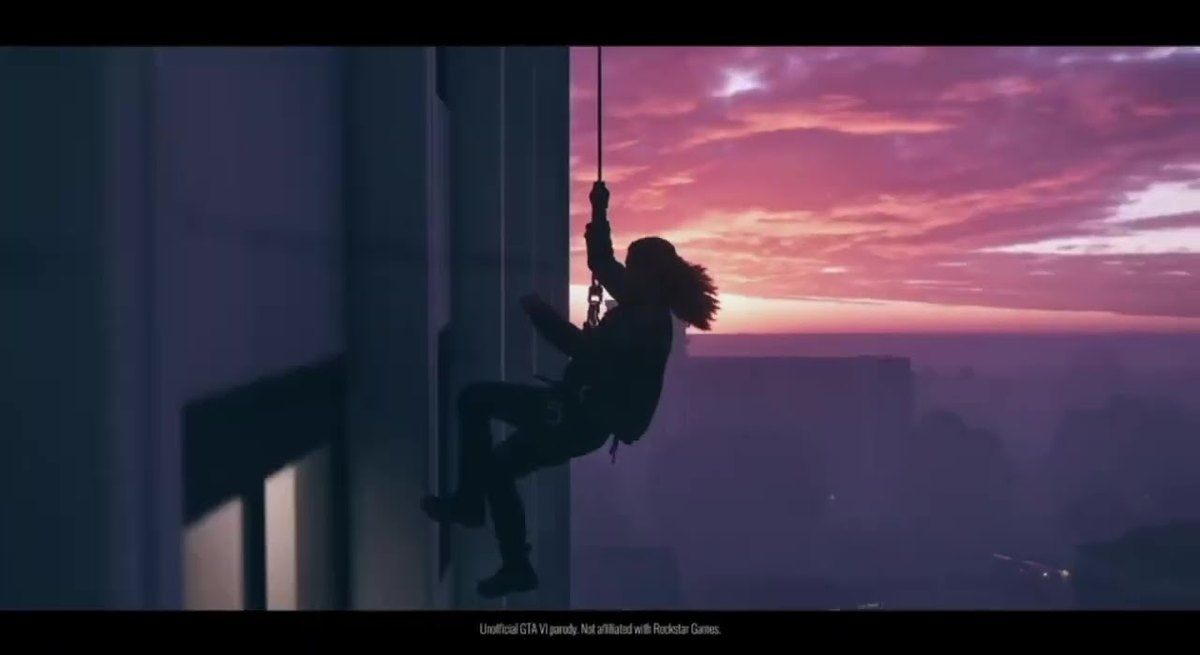
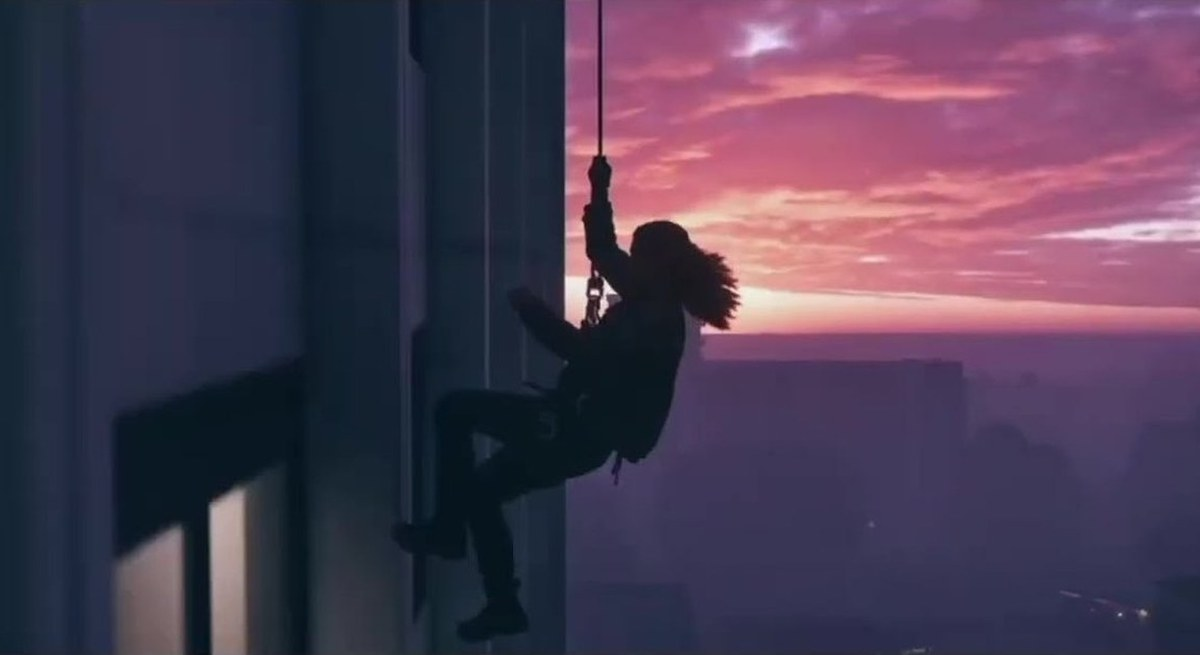
Harlow GTA story: trim letterbox bars from the video still; rebuild
Claude-Session: https://claude.ai/code/session_018rhzTHx5DMZuxeE12rwhtN

diff --git a/about/index.html b/about/index.html
@@ -97,7 +97,7 @@
 
 <h2 id="photo-credits">Photo credits</h2>
 <p>Town photographs on The Seax come from Wikimedia Commons and are used under the licences shown. They have been resized for the web and are shared under the same terms. Our map artwork is our own.</p>
-<ul class="credits"><li>Beach huts, West Mersea: photo by Robert Eva, <a href="https://creativecommons.org/licenses/by-sa/2.0" rel="license noopener">CC BY-SA 2.0</a>, via <a href="https://commons.wikimedia.org/wiki/File:Beach_Huts,_West_Mersea_-_geograph.org.uk_-_5291459.jpg" rel="noopener">Wikimedia Commons</a></li><li>Braintree Town Hall: photo by Richard Kelly, <a href="https://creativecommons.org/licenses/by/4.0" rel="license noopener">CC BY 4.0</a>, via <a href="https://commons.wikimedia.org/wiki/File:Braintree_Town_Hall.jpg" rel="noopener">Wikimedia Commons</a></li><li>Brentwood Cathedral: photo by Fr James Bradley, <a href="https://creativecommons.org/licenses/by/2.0" rel="license noopener">CC BY 2.0</a>, via <a href="https://commons.wikimedia.org/wiki/File:Brentwood_Cathedral_exterior_2.jpg" rel="noopener">Wikimedia Commons</a></li><li>Burnham-on-Crouch marina: photo by Robert Eva, <a href="https://creativecommons.org/licenses/by-sa/2.0" rel="license noopener">CC BY-SA 2.0</a>, via <a href="https://commons.wikimedia.org/wiki/File:Burnham_on_Crouch_marina_-_geograph.org.uk_-_5671413.jpg" rel="noopener">Wikimedia Commons</a></li><li>Canvey Island seafront: photo by Brian Chadwick, <a href="https://creativecommons.org/licenses/by-sa/2.0" rel="license noopener">CC BY-SA 2.0</a>, via <a href="https://commons.wikimedia.org/wiki/File:The_approach_to_the_seafront_at_Canvey_Island_-_geograph.org.uk_-_1889960.jpg" rel="noopener">Wikimedia Commons</a></li><li>Chelmsford Cathedral: photo by Diliff, <a href="https://creativecommons.org/licenses/by-sa/3.0" rel="license noopener">CC BY-SA 3.0</a>, via <a href="https://commons.wikimedia.org/wiki/File:Chelmsford_Cathedral_Exterior,_Essex,_UK_-_Diliff.jpg" rel="noopener">Wikimedia Commons</a></li><li>Chigwell station: photo by Stacey Harris, <a href="https://creativecommons.org/licenses/by-sa/2.0" rel="license noopener">CC BY-SA 2.0</a>, via <a href="https://commons.wikimedia.org/wiki/File:Chigwell_underground_station_-_geograph.org.uk_-_2381964.jpg" rel="noopener">Wikimedia Commons</a></li><li>Clacton Pier: photo by Steve Daniels, <a href="https://creativecommons.org/licenses/by-sa/2.0" rel="license noopener">CC BY-SA 2.0</a>, via <a href="https://commons.wikimedia.org/wiki/File:Clacton_Pier_-_geograph.org.uk_-_5530161.jpg" rel="noopener">Wikimedia Commons</a></li><li>Colchester Castle: photo by Spudgun67, <a href="http://creativecommons.org/publicdomain/zero/1.0/deed.en" rel="license noopener">CC0</a>, via <a href="https://commons.wikimedia.org/wiki/File:Colchester_Castle_Castle_Park_Colchester_Essex_CO1_1TJ.jpg" rel="noopener">Wikimedia Commons</a></li><li>Epping High Street: photo by Nigel Thompson, <a href="https://creativecommons.org/licenses/by-sa/2.0" rel="license noopener">CC BY-SA 2.0</a>, via <a href="https://commons.wikimedia.org/wiki/File:Epping_High_Street_-_geograph.org.uk_-_7463158.jpg" rel="noopener">Wikimedia Commons</a></li><li>Frinton-on-Sea beach: photo by Rhys Wynne, <a href="https://creativecommons.org/licenses/by-sa/2.0" rel="license noopener">CC BY-SA 2.0</a>, via <a href="https://commons.wikimedia.org/wiki/File:Frinton-on-sea_(274636193).jpg" rel="noopener">Wikimedia Commons</a></li><li>Grange Barn, Coggeshall: photo by Tim Heaton, <a href="https://creativecommons.org/licenses/by-sa/2.0" rel="license noopener">CC BY-SA 2.0</a>, via <a href="https://commons.wikimedia.org/wiki/File:Grange_Barn,_Coggeshall_-_geograph.org.uk_-_6649109.jpg" rel="noopener">Wikimedia Commons</a></li><li>Ha&#x27;penny Pier, Harwich: photo by Bob Jones, <a href="https://creativecommons.org/licenses/by-sa/2.0" rel="license noopener">CC BY-SA 2.0</a>, via <a href="https://commons.wikimedia.org/wiki/File:Ha&#x27;penny_Pier,_Harwich_-_geograph.org.uk_-_2565200.jpg" rel="noopener">Wikimedia Commons</a></li><li>High Road, Loughton: photo by Peter Trimming, <a href="https://creativecommons.org/licenses/by-sa/2.0" rel="license noopener">CC BY-SA 2.0</a>, via <a href="https://commons.wikimedia.org/wiki/File:Loughton_-_geograph.org.uk_-_5041403.jpg" rel="noopener">Wikimedia Commons</a></li><li>High Street, Billericay: photo by MadeInBasildon, <a href="https://creativecommons.org/licenses/by-sa/4.0" rel="license noopener">CC BY-SA 4.0</a>, via <a href="https://commons.wikimedia.org/wiki/File:Billericay_-_57-61,_High_Street_-_20210923130723.jpg" rel="noopener">Wikimedia Commons</a></li><li>Hythe Quay, Maldon: photo by ClemRutter, <a href="https://creativecommons.org/licenses/by-sa/4.0" rel="license noopener">CC BY-SA 4.0</a>, via <a href="https://commons.wikimedia.org/wiki/File:Hythe_Quay,_Maldon_3787.jpg" rel="noopener">Wikimedia Commons</a></li><li>Newland Street, Witham: photo by Christopher Hilton, <a href="https://creativecommons.org/licenses/by-sa/2.0" rel="license noopener">CC BY-SA 2.0</a>, via <a href="https://commons.wikimedia.org/wiki/File:Newland_Street,_Witham_-_geograph.org.uk_-_7167860.jpg" rel="noopener">Wikimedia Commons</a></li><li>North Street, Great Dunmow: photo by Malc McDonald, <a href="https://creativecommons.org/licenses/by-sa/2.0" rel="license noopener">CC BY-SA 2.0</a>, via <a href="https://commons.wikimedia.org/wiki/File:North_Street,_Great_Dunmow_-_geograph.org.uk_-_7333292.jpg" rel="noopener">Wikimedia Commons</a></li><li>Old Leigh, Leigh-on-Sea: photo by Chris Wood, <a href="https://creativecommons.org/licenses/by-sa/4.0" rel="license noopener">CC BY-SA 4.0</a>, via <a href="https://commons.wikimedia.org/wiki/File:Leigh-on-Sea_-_Old_Leigh_-_05.jpg" rel="noopener">Wikimedia Commons</a></li><li>Rayleigh Windmill: photo by Jonathan Cardy, <a href="https://creativecommons.org/licenses/by-sa/3.0" rel="license noopener">CC BY-SA 3.0</a>, via <a href="https://commons.wikimedia.org/wiki/File:Rayleigh_Windmill_7.JPG" rel="noopener">Wikimedia Commons</a></li><li>River Colne, Halstead: photo by Nick MacNeill, <a href="https://creativecommons.org/licenses/by-sa/2.0" rel="license noopener">CC BY-SA 2.0</a>, via <a href="https://commons.wikimedia.org/wiki/File:River_Colne,_Halstead_-_geograph.org.uk_-_2512408.jpg" rel="noopener">Wikimedia Commons</a></li><li>River Thames at Purfleet: photo by Richard Rogerson, <a href="https://creativecommons.org/licenses/by-sa/2.0" rel="license noopener">CC BY-SA 2.0</a>, via <a href="https://commons.wikimedia.org/wiki/File:Landing_Stage_on_the_River_Thames,_Purfleet_-_geograph.org.uk_-_6124336.jpg" rel="noopener">Wikimedia Commons</a></li><li>Riverside gardens, Grays: photo by Robert Eva, <a href="https://creativecommons.org/licenses/by-sa/2.0" rel="license noopener">CC BY-SA 2.0</a>, via <a href="https://commons.wikimedia.org/wiki/File:Riverside_gardens_at_Grays_-_geograph.org.uk_-_5531644.jpg" rel="noopener">Wikimedia Commons</a></li><li>Rochford Hall: photo by David Kemp, <a href="https://creativecommons.org/licenses/by-sa/2.0" rel="license noopener">CC BY-SA 2.0</a>, via <a href="https://commons.wikimedia.org/wiki/File:Rochford_Hall_-_geograph.org.uk_-_5817807.jpg" rel="noopener">Wikimedia Commons</a></li><li>Saffron Walden: photo by Peter Trimming, <a href="https://creativecommons.org/licenses/by-sa/2.0" rel="license noopener">CC BY-SA 2.0</a>, via <a href="https://commons.wikimedia.org/wiki/File:Saffron_Walden_-_geograph.org.uk_-_4412899.jpg" rel="noopener">Wikimedia Commons</a></li><li>South Woodham Ferrers from the air: photo by Terry Joyce, <a href="https://creativecommons.org/licenses/by-sa/2.0" rel="license noopener">CC BY-SA 2.0</a>, via <a href="https://commons.wikimedia.org/wiki/File:South_Woodham_Ferrers_-_geograph.org.uk_-_2125855.jpg" rel="noopener">Wikimedia Commons</a></li><li>Southend Pier: photo by Damian Dukarski, <a href="https://creativecommons.org/licenses/by-sa/3.0" rel="license noopener">CC BY-SA 3.0</a>, via <a href="https://commons.wikimedia.org/wiki/File:Southend_Pier_Autumn_2007_-_crop.jpg" rel="noopener">Wikimedia Commons</a></li><li>St Margaret&#x27;s Church, Stanford-le-Hope: photo by John Salmon, <a href="https://creativecommons.org/licenses/by-sa/2.0" rel="license noopener">CC BY-SA 2.0</a>, via <a href="https://commons.wikimedia.org/wiki/File:St_Margaret_of_Antioch,_Stanford_le_Hope,_Essex_-_geograph.org.uk_-_1862988.jpg" rel="noopener">Wikimedia Commons</a></li><li>St Mary&#x27;s Church, South Benfleet: photo by JohnArmagh, <a href="https://creativecommons.org/publicdomain/mark/1.0/" rel="license noopener">Public domain</a>, via <a href="https://commons.wikimedia.org/wiki/File:StMary&#x27;sChurchBenfleet_SouthEast.JPG" rel="noopener">Wikimedia Commons</a></li><li>Stansted Mountfitchet windmill: photo by Christine Matthews, <a href="https://creativecommons.org/licenses/by-sa/2.0" rel="license noopener">CC BY-SA 2.0</a>, via <a href="https://commons.wikimedia.org/wiki/File:Windmill_at_Stansted_Mountfitchet_-_geograph.org.uk_-_5686287.jpg" rel="noopener">Wikimedia Commons</a></li><li>The Basildon Centre: photo by Richard Kelly, <a href="https://creativecommons.org/licenses/by-sa/4.0" rel="license noopener">CC BY-SA 4.0</a>, via <a href="https://commons.wikimedia.org/wiki/File:The_Basildon_Centre.jpg" rel="noopener">Wikimedia Commons</a></li><li>The Naze Tower, Walton-on-the-Naze: photo by Michael Coppins, <a href="https://creativecommons.org/licenses/by-sa/4.0" rel="license noopener">CC BY-SA 4.0</a>, via <a href="https://commons.wikimedia.org/wiki/File:The_Naze_Tower.jpg" rel="noopener">Wikimedia Commons</a></li><li>Tilbury Fort: photo by Hugh Llewelyn, <a href="https://creativecommons.org/licenses/by-sa/2.0" rel="license noopener">CC BY-SA 2.0</a>, via <a href="https://commons.wikimedia.org/wiki/File:Tilbury_Fort_-_48957435023.jpg" rel="noopener">Wikimedia Commons</a></li><li>Waltham Abbey Church: photo by The wub, <a href="https://creativecommons.org/licenses/by-sa/4.0" rel="license noopener">CC BY-SA 4.0</a>, via <a href="https://commons.wikimedia.org/wiki/File:Waltham_Abbey_Church_from_southeast_2022-02-26.jpg" rel="noopener">Wikimedia Commons</a></li><li>Water Gardens, Harlow: photo by FromMorningToMidnight, <a href="https://creativecommons.org/licenses/by-sa/4.0" rel="license noopener">CC BY-SA 4.0</a>, via <a href="https://commons.wikimedia.org/wiki/File:Harlow_-_Water_Gardens_-_20220823190714.jpg" rel="noopener">Wikimedia Commons</a></li><li>Western promenade, Brightlingsea: photo by Helen Steed, <a href="https://creativecommons.org/licenses/by-sa/2.0" rel="license noopener">CC BY-SA 2.0</a>, via <a href="https://commons.wikimedia.org/wiki/File:Western_promenade,_Brightlingsea_-_geograph.org.uk_-_7338080.jpg" rel="noopener">Wikimedia Commons</a></li><li>Wickford station: photo by Robert Eva, <a href="https://creativecommons.org/licenses/by-sa/2.0" rel="license noopener">CC BY-SA 2.0</a>, via <a href="https://commons.wikimedia.org/wiki/File:Wickford_station_footbridge_(geograph_5671926).jpg" rel="noopener">Wikimedia Commons</a></li><li>London Stansted Airport library images: photos by London Stansted Airport</li><li>c2c train 357 040 at Ripple Lane (used on c2c stories): photo by kitmasterbloke, <a href="https://creativecommons.org/licenses/by/4.0/" rel="license noopener">CC BY 4.0</a>, via <a href="https://commons.wikimedia.org/wiki/File:357_040_Ripple_Lane_151025.jpg" rel="noopener">Wikimedia Commons</a>; cropped and resized</li><li>Blake Branch, who died aged 17 months in Shoeburyness in October: picture by Essex Police</li><li>Radwan Shakur, 21, who died in Central Park, Chelmsford, in June (file photo): photo by , <a href="" rel="license noopener"></a>, via <a href="" rel="noopener">source</a>; set on a blurred background and shared under the same licence</li><li>Dr Haider Raza: picture by University of Essex</li><li>Lloyd Scott in 2009 (file photo): photo by Lewser, <a href="https://creativecommons.org/licenses/by/3.0/" rel="license noopener">CC BY 3.0</a>, via <a href="https://en.wikipedia.org/wiki/File:LloydScott.jpg" rel="noopener">Wikipedia</a>; set on a blurred background and shared under the same licence</li><li>The broken carriageway on the southbound A12 near Ingatestone: picture by Essex Police</li><li>Chasing Mr Sunshine, the BBC&#x27;s investigation: picture by BBC</li><li>How the new Army and Navy junction in Chelmsford could look: picture by Essex Highways</li><li>Hannah Steer, 15, missing from Clacton since Sunday night: picture by Essex Police</li><li>How &#x27;Southend Station Man&#x27; may have looked as a younger man, about 20 years before his death: picture by Locate International</li><li>Simon Mahoney: family photo (left) and CCTV pictures from shops in Chelmsford on Friday 13 November: picture by Essex Police</li><li>Essex &amp; Herts Air Ambulance doctors and paramedics, with flight doctor Kate Jackson (right), at the airbase: picture by Essex &amp; Herts Air Ambulance</li><li>Fatima Whitbread MBE (left) at Brentwood&#x27;s Freedom of the Borough presentation: picture by Brentwood Borough Council</li><li>Russell Brand (file photo): photo by Eva Rinaldi, <a href="https://creativecommons.org/licenses/by-sa/2.0/" rel="license noopener">CC BY-SA 2.0</a>, via <a href="https://commons.wikimedia.org/w/index.php?curid=36978689" rel="noopener">Flickr</a>; set on a blurred background and shared under the same licence</li><li>Emily and Abigail Roper (file photo): photo by University of Essex, <a href="" rel="license noopener">used with credit</a>, via <a href="https://www.essex.ac.uk/news/2026/11/09/roper-twins-spring-back-to-essex-after-commonwealth-games-glory" rel="noopener">University of Essex</a>; set on a blurred background and shared under the same licence</li><li>Southend Pier festoon lights: picture by Southend City Council</li><li>Frosty morning: picture by The Seax</li><li>RSPCA: picture by RSPCA</li><li>Essex &amp; Herts Air Ambulance: picture by Essex &amp; Herts Air Ambulance</li><li>Safe sleep for babies: picture by The Seax</li><li>A man with his head in his hand at sunset: picture by The Seax</li><li>King Evelthon Beach Hotel and Resort, Chlorakas, Cyprus: picture by King Evelthon Beach Hotel &amp; Resort</li><li>Anglia Ruskin University sign: picture by The Seax</li><li>HM Coroner&#x27;s Service: picture by HM Coroner&#x27;s Service</li><li>Christmas in the City stage at the Shire Hall, Chelmsford: picture by The Seax</li><li>Southend dispersal order zone, 14 November 2026: picture by Essex Police</li><li>Zara in hospital in August 2025: picture by NHS Essex</li><li>Essex Police picture used with its shop theft figures: picture by Essex Police</li><li>Essex Police officer with body-worn camera: picture by Essex Police</li><li>Essex Police officer with body-worn camera: picture by Essex Police</li><li>Pupils see the Great Baddow Hoard at the Museum of Chelmsford: picture by Museum of Chelmsford</li><li>The Great Baddow Hoard of Iron Age gold coins: picture by Museum of Chelmsford</li><li>The welcome desk at the Museum of Chelmsford in Oaklands Park: picture by Museum of Chelmsford</li><li>Rosie with two of the firefighters who dug her out: picture by Essex County Fire and Rescue Service</li><li>Grace Scrivens: picture by Essex Cricket</li><li>Mango hoarding at High Chelmer, Chelmsford: picture by Diana Bond</li></ul>
+<ul class="credits"><li>Beach huts, West Mersea: photo by Robert Eva, <a href="https://creativecommons.org/licenses/by-sa/2.0" rel="license noopener">CC BY-SA 2.0</a>, via <a href="https://commons.wikimedia.org/wiki/File:Beach_Huts,_West_Mersea_-_geograph.org.uk_-_5291459.jpg" rel="noopener">Wikimedia Commons</a></li><li>Braintree Town Hall: photo by Richard Kelly, <a href="https://creativecommons.org/licenses/by/4.0" rel="license noopener">CC BY 4.0</a>, via <a href="https://commons.wikimedia.org/wiki/File:Braintree_Town_Hall.jpg" rel="noopener">Wikimedia Commons</a></li><li>Brentwood Cathedral: photo by Fr James Bradley, <a href="https://creativecommons.org/licenses/by/2.0" rel="license noopener">CC BY 2.0</a>, via <a href="https://commons.wikimedia.org/wiki/File:Brentwood_Cathedral_exterior_2.jpg" rel="noopener">Wikimedia Commons</a></li><li>Burnham-on-Crouch marina: photo by Robert Eva, <a href="https://creativecommons.org/licenses/by-sa/2.0" rel="license noopener">CC BY-SA 2.0</a>, via <a href="https://commons.wikimedia.org/wiki/File:Burnham_on_Crouch_marina_-_geograph.org.uk_-_5671413.jpg" rel="noopener">Wikimedia Commons</a></li><li>Canvey Island seafront: photo by Brian Chadwick, <a href="https://creativecommons.org/licenses/by-sa/2.0" rel="license noopener">CC BY-SA 2.0</a>, via <a href="https://commons.wikimedia.org/wiki/File:The_approach_to_the_seafront_at_Canvey_Island_-_geograph.org.uk_-_1889960.jpg" rel="noopener">Wikimedia Commons</a></li><li>Chelmsford Cathedral: photo by Diliff, <a href="https://creativecommons.org/licenses/by-sa/3.0" rel="license noopener">CC BY-SA 3.0</a>, via <a href="https://commons.wikimedia.org/wiki/File:Chelmsford_Cathedral_Exterior,_Essex,_UK_-_Diliff.jpg" rel="noopener">Wikimedia Commons</a></li><li>Chigwell station: photo by Stacey Harris, <a href="https://creativecommons.org/licenses/by-sa/2.0" rel="license noopener">CC BY-SA 2.0</a>, via <a href="https://commons.wikimedia.org/wiki/File:Chigwell_underground_station_-_geograph.org.uk_-_2381964.jpg" rel="noopener">Wikimedia Commons</a></li><li>Clacton Pier: photo by Steve Daniels, <a href="https://creativecommons.org/licenses/by-sa/2.0" rel="license noopener">CC BY-SA 2.0</a>, via <a href="https://commons.wikimedia.org/wiki/File:Clacton_Pier_-_geograph.org.uk_-_5530161.jpg" rel="noopener">Wikimedia Commons</a></li><li>Colchester Castle: photo by Spudgun67, <a href="http://creativecommons.org/publicdomain/zero/1.0/deed.en" rel="license noopener">CC0</a>, via <a href="https://commons.wikimedia.org/wiki/File:Colchester_Castle_Castle_Park_Colchester_Essex_CO1_1TJ.jpg" rel="noopener">Wikimedia Commons</a></li><li>Epping High Street: photo by Nigel Thompson, <a href="https://creativecommons.org/licenses/by-sa/2.0" rel="license noopener">CC BY-SA 2.0</a>, via <a href="https://commons.wikimedia.org/wiki/File:Epping_High_Street_-_geograph.org.uk_-_7463158.jpg" rel="noopener">Wikimedia Commons</a></li><li>Frinton-on-Sea beach: photo by Rhys Wynne, <a href="https://creativecommons.org/licenses/by-sa/2.0" rel="license noopener">CC BY-SA 2.0</a>, via <a href="https://commons.wikimedia.org/wiki/File:Frinton-on-sea_(274636193).jpg" rel="noopener">Wikimedia Commons</a></li><li>Grange Barn, Coggeshall: photo by Tim Heaton, <a href="https://creativecommons.org/licenses/by-sa/2.0" rel="license noopener">CC BY-SA 2.0</a>, via <a href="https://commons.wikimedia.org/wiki/File:Grange_Barn,_Coggeshall_-_geograph.org.uk_-_6649109.jpg" rel="noopener">Wikimedia Commons</a></li><li>Ha&#x27;penny Pier, Harwich: photo by Bob Jones, <a href="https://creativecommons.org/licenses/by-sa/2.0" rel="license noopener">CC BY-SA 2.0</a>, via <a href="https://commons.wikimedia.org/wiki/File:Ha&#x27;penny_Pier,_Harwich_-_geograph.org.uk_-_2565200.jpg" rel="noopener">Wikimedia Commons</a></li><li>High Road, Loughton: photo by Peter Trimming, <a href="https://creativecommons.org/licenses/by-sa/2.0" rel="license noopener">CC BY-SA 2.0</a>, via <a href="https://commons.wikimedia.org/wiki/File:Loughton_-_geograph.org.uk_-_5041403.jpg" rel="noopener">Wikimedia Commons</a></li><li>High Street, Billericay: photo by MadeInBasildon, <a href="https://creativecommons.org/licenses/by-sa/4.0" rel="license noopener">CC BY-SA 4.0</a>, via <a href="https://commons.wikimedia.org/wiki/File:Billericay_-_57-61,_High_Street_-_20210923130723.jpg" rel="noopener">Wikimedia Commons</a></li><li>Hythe Quay, Maldon: photo by ClemRutter, <a href="https://creativecommons.org/licenses/by-sa/4.0" rel="license noopener">CC BY-SA 4.0</a>, via <a href="https://commons.wikimedia.org/wiki/File:Hythe_Quay,_Maldon_3787.jpg" rel="noopener">Wikimedia Commons</a></li><li>Newland Street, Witham: photo by Christopher Hilton, <a href="https://creativecommons.org/licenses/by-sa/2.0" rel="license noopener">CC BY-SA 2.0</a>, via <a href="https://commons.wikimedia.org/wiki/File:Newland_Street,_Witham_-_geograph.org.uk_-_7167860.jpg" rel="noopener">Wikimedia Commons</a></li><li>North Street, Great Dunmow: photo by Malc McDonald, <a href="https://creativecommons.org/licenses/by-sa/2.0" rel="license noopener">CC BY-SA 2.0</a>, via <a href="https://commons.wikimedia.org/wiki/File:North_Street,_Great_Dunmow_-_geograph.org.uk_-_7333292.jpg" rel="noopener">Wikimedia Commons</a></li><li>Old Leigh, Leigh-on-Sea: photo by Chris Wood, <a href="https://creativecommons.org/licenses/by-sa/4.0" rel="license noopener">CC BY-SA 4.0</a>, via <a href="https://commons.wikimedia.org/wiki/File:Leigh-on-Sea_-_Old_Leigh_-_05.jpg" rel="noopener">Wikimedia Commons</a></li><li>Rayleigh Windmill: photo by Jonathan Cardy, <a href="https://creativecommons.org/licenses/by-sa/3.0" rel="license noopener">CC BY-SA 3.0</a>, via <a href="https://commons.wikimedia.org/wiki/File:Rayleigh_Windmill_7.JPG" rel="noopener">Wikimedia Commons</a></li><li>River Colne, Halstead: photo by Nick MacNeill, <a href="https://creativecommons.org/licenses/by-sa/2.0" rel="license noopener">CC BY-SA 2.0</a>, via <a href="https://commons.wikimedia.org/wiki/File:River_Colne,_Halstead_-_geograph.org.uk_-_2512408.jpg" rel="noopener">Wikimedia Commons</a></li><li>River Thames at Purfleet: photo by Richard Rogerson, <a href="https://creativecommons.org/licenses/by-sa/2.0" rel="license noopener">CC BY-SA 2.0</a>, via <a href="https://commons.wikimedia.org/wiki/File:Landing_Stage_on_the_River_Thames,_Purfleet_-_geograph.org.uk_-_6124336.jpg" rel="noopener">Wikimedia Commons</a></li><li>Riverside gardens, Grays: photo by Robert Eva, <a href="https://creativecommons.org/licenses/by-sa/2.0" rel="license noopener">CC BY-SA 2.0</a>, via <a href="https://commons.wikimedia.org/wiki/File:Riverside_gardens_at_Grays_-_geograph.org.uk_-_5531644.jpg" rel="noopener">Wikimedia Commons</a></li><li>Rochford Hall: photo by David Kemp, <a href="https://creativecommons.org/licenses/by-sa/2.0" rel="license noopener">CC BY-SA 2.0</a>, via <a href="https://commons.wikimedia.org/wiki/File:Rochford_Hall_-_geograph.org.uk_-_5817807.jpg" rel="noopener">Wikimedia Commons</a></li><li>Saffron Walden: photo by Peter Trimming, <a href="https://creativecommons.org/licenses/by-sa/2.0" rel="license noopener">CC BY-SA 2.0</a>, via <a href="https://commons.wikimedia.org/wiki/File:Saffron_Walden_-_geograph.org.uk_-_4412899.jpg" rel="noopener">Wikimedia Commons</a></li><li>South Woodham Ferrers from the air: photo by Terry Joyce, <a href="https://creativecommons.org/licenses/by-sa/2.0" rel="license noopener">CC BY-SA 2.0</a>, via <a href="https://commons.wikimedia.org/wiki/File:South_Woodham_Ferrers_-_geograph.org.uk_-_2125855.jpg" rel="noopener">Wikimedia Commons</a></li><li>Southend Pier: photo by Damian Dukarski, <a href="https://creativecommons.org/licenses/by-sa/3.0" rel="license noopener">CC BY-SA 3.0</a>, via <a href="https://commons.wikimedia.org/wiki/File:Southend_Pier_Autumn_2007_-_crop.jpg" rel="noopener">Wikimedia Commons</a></li><li>St Margaret&#x27;s Church, Stanford-le-Hope: photo by John Salmon, <a href="https://creativecommons.org/licenses/by-sa/2.0" rel="license noopener">CC BY-SA 2.0</a>, via <a href="https://commons.wikimedia.org/wiki/File:St_Margaret_of_Antioch,_Stanford_le_Hope,_Essex_-_geograph.org.uk_-_1862988.jpg" rel="noopener">Wikimedia Commons</a></li><li>St Mary&#x27;s Church, South Benfleet: photo by JohnArmagh, <a href="https://creativecommons.org/publicdomain/mark/1.0/" rel="license noopener">Public domain</a>, via <a href="https://commons.wikimedia.org/wiki/File:StMary&#x27;sChurchBenfleet_SouthEast.JPG" rel="noopener">Wikimedia Commons</a></li><li>Stansted Mountfitchet windmill: photo by Christine Matthews, <a href="https://creativecommons.org/licenses/by-sa/2.0" rel="license noopener">CC BY-SA 2.0</a>, via <a href="https://commons.wikimedia.org/wiki/File:Windmill_at_Stansted_Mountfitchet_-_geograph.org.uk_-_5686287.jpg" rel="noopener">Wikimedia Commons</a></li><li>The Basildon Centre: photo by Richard Kelly, <a href="https://creativecommons.org/licenses/by-sa/4.0" rel="license noopener">CC BY-SA 4.0</a>, via <a href="https://commons.wikimedia.org/wiki/File:The_Basildon_Centre.jpg" rel="noopener">Wikimedia Commons</a></li><li>The Naze Tower, Walton-on-the-Naze: photo by Michael Coppins, <a href="https://creativecommons.org/licenses/by-sa/4.0" rel="license noopener">CC BY-SA 4.0</a>, via <a href="https://commons.wikimedia.org/wiki/File:The_Naze_Tower.jpg" rel="noopener">Wikimedia Commons</a></li><li>Tilbury Fort: photo by Hugh Llewelyn, <a href="https://creativecommons.org/licenses/by-sa/2.0" rel="license noopener">CC BY-SA 2.0</a>, via <a href="https://commons.wikimedia.org/wiki/File:Tilbury_Fort_-_48957435023.jpg" rel="noopener">Wikimedia Commons</a></li><li>Waltham Abbey Church: photo by The wub, <a href="https://creativecommons.org/licenses/by-sa/4.0" rel="license noopener">CC BY-SA 4.0</a>, via <a href="https://commons.wikimedia.org/wiki/File:Waltham_Abbey_Church_from_southeast_2022-02-26.jpg" rel="noopener">Wikimedia Commons</a></li><li>Water Gardens, Harlow: photo by FromMorningToMidnight, <a href="https://creativecommons.org/licenses/by-sa/4.0" rel="license noopener">CC BY-SA 4.0</a>, via <a href="https://commons.wikimedia.org/wiki/File:Harlow_-_Water_Gardens_-_20220823190714.jpg" rel="noopener">Wikimedia Commons</a></li><li>Western promenade, Brightlingsea: photo by Helen Steed, <a href="https://creativecommons.org/licenses/by-sa/2.0" rel="license noopener">CC BY-SA 2.0</a>, via <a href="https://commons.wikimedia.org/wiki/File:Western_promenade,_Brightlingsea_-_geograph.org.uk_-_7338080.jpg" rel="noopener">Wikimedia Commons</a></li><li>Wickford station: photo by Robert Eva, <a href="https://creativecommons.org/licenses/by-sa/2.0" rel="license noopener">CC BY-SA 2.0</a>, via <a href="https://commons.wikimedia.org/wiki/File:Wickford_station_footbridge_(geograph_5671926).jpg" rel="noopener">Wikimedia Commons</a></li><li>London Stansted Airport library images: photos by London Stansted Airport</li><li>c2c train 357 040 at Ripple Lane (used on c2c stories): photo by kitmasterbloke, <a href="https://creativecommons.org/licenses/by/4.0/" rel="license noopener">CC BY 4.0</a>, via <a href="https://commons.wikimedia.org/wiki/File:357_040_Ripple_Lane_151025.jpg" rel="noopener">Wikimedia Commons</a>; cropped and resized</li><li>Blake Branch, who died aged 17 months in Shoeburyness in October: picture by Essex Police</li><li>Radwan Shakur, 21, who died in Central Park, Chelmsford, in June (file photo): photo by , <a href="" rel="license noopener"></a>, via <a href="" rel="noopener">source</a>; set on a blurred background and shared under the same licence</li><li>Dr Haider Raza: picture by University of Essex</li><li>Lloyd Scott in 2009 (file photo): photo by Lewser, <a href="https://creativecommons.org/licenses/by/3.0/" rel="license noopener">CC BY 3.0</a>, via <a href="https://en.wikipedia.org/wiki/File:LloydScott.jpg" rel="noopener">Wikipedia</a>; set on a blurred background and shared under the same licence</li><li>The broken carriageway on the southbound A12 near Ingatestone: picture by Essex Police</li><li>Chasing Mr Sunshine, the BBC&#x27;s investigation: picture by BBC</li><li>How the new Army and Navy junction in Chelmsford could look: picture by Essex Highways</li><li>Hannah Steer, 15, missing from Clacton since Sunday night: picture by Essex Police</li><li>How &#x27;Southend Station Man&#x27; may have looked as a younger man, about 20 years before his death: picture by Locate International</li><li>Simon Mahoney: family photo (left) and CCTV pictures from shops in Chelmsford on Friday 13 November: picture by Essex Police</li><li>Essex &amp; Herts Air Ambulance doctors and paramedics, with flight doctor Kate Jackson (right), at the airbase: picture by Essex &amp; Herts Air Ambulance</li><li>Fatima Whitbread MBE (left) at Brentwood&#x27;s Freedom of the Borough presentation: picture by Brentwood Borough Council</li><li>Russell Brand (file photo): photo by Eva Rinaldi, <a href="https://creativecommons.org/licenses/by-sa/2.0/" rel="license noopener">CC BY-SA 2.0</a>, via <a href="https://commons.wikimedia.org/w/index.php?curid=36978689" rel="noopener">Flickr</a>; set on a blurred background and shared under the same licence</li><li>Emily and Abigail Roper (file photo): photo by University of Essex, <a href="" rel="license noopener">used with credit</a>, via <a href="https://www.essex.ac.uk/news/2026/11/09/roper-twins-spring-back-to-essex-after-commonwealth-games-glory" rel="noopener">University of Essex</a>; set on a blurred background and shared under the same licence</li><li>Southend Pier festoon lights: picture by Southend City Council</li><li>Frosty morning: picture by The Seax</li><li>RSPCA: picture by RSPCA</li><li>Essex &amp; Herts Air Ambulance: picture by Essex &amp; Herts Air Ambulance</li><li>Safe sleep for babies: picture by The Seax</li><li>A man with his head in his hand at sunset: picture by The Seax</li><li>King Evelthon Beach Hotel and Resort, Chlorakas, Cyprus: picture by King Evelthon Beach Hotel &amp; Resort</li><li>Anglia Ruskin University sign: picture by The Seax</li><li>HM Coroner&#x27;s Service: picture by HM Coroner&#x27;s Service</li><li>Christmas in the City stage at the Shire Hall, Chelmsford: picture by The Seax</li><li>Southend dispersal order zone, 14 November 2026: picture by Essex Police</li><li>Zara in hospital in August 2025: picture by NHS Essex</li><li>Essex Police picture used with its shop theft figures: picture by Essex Police</li><li>Essex Police officer with body-worn camera: picture by Essex Police</li><li>Essex Police officer with body-worn camera: picture by Essex Police</li><li>Pupils see the Great Baddow Hoard at the Museum of Chelmsford: picture by Museum of Chelmsford</li><li>The Great Baddow Hoard of Iron Age gold coins: picture by Museum of Chelmsford</li><li>The welcome desk at the Museum of Chelmsford in Oaklands Park: picture by Museum of Chelmsford</li><li>Rosie with two of the firefighters who dug her out: picture by Essex County Fire and Rescue Service</li><li>Grace Scrivens: picture by Essex Cricket</li><li>Mango hoarding at High Chelmer, Chelmsford: picture by Diana Bond</li><li>Still from Harlow Council&#x27;s GTA-style video of the town: picture by Harlow Council</li></ul>
 
 <h2>Why "The Seax"?</h2>
 <p>The seax is the short sword of the Saxons, and three seaxes appear on the arms of Essex: gules, three seaxes fesswise in pale argent, pommels and hilts or. Our badge follows that blazon.</p>

diff --git a/story/harlow-council-gta-6-parody-video-town-centre/index.html b/story/harlow-council-gta-6-parody-video-town-centre/index.html
@@ -12,14 +12,14 @@
 <meta property="og:title" content="Harlow Council spoofs GTA 6 with video tour of its town centre revamp">
 <meta property="og:description" content="A day before Grand Theft Auto VI goes on sale, Harlow Council has released a tongue-in-cheek video that drives viewers round the town&#x27;s roundabouts and rebuilt Market Square.">
 <meta property="og:url" content="https://theseax.com/story/harlow-council-gta-6-parody-video-town-centre/">
-<meta property="og:image" content="https://theseax.com/img/og/place-harlow.jpg">
+<meta property="og:image" content="https://theseax.com/img/people/harlow-council-gta-6-parody-video-town-centre-og.jpg">
 <meta property="og:image:width" content="1200">
 <meta property="og:image:height" content="630">
 <meta property="og:image:alt" content="The Seax, Essex News, Sport, Life.">
 <meta name="twitter:card" content="summary_large_image">
 <meta name="twitter:title" content="Harlow Council spoofs GTA 6 with video tour of its town centre revamp">
 <meta name="twitter:description" content="A day before Grand Theft Auto VI goes on sale, Harlow Council has released a tongue-in-cheek video that drives viewers round the town&#x27;s roundabouts and rebuilt Market Square.">
-<meta name="twitter:image" content="https://theseax.com/img/og/place-harlow.jpg">
+<meta name="twitter:image" content="https://theseax.com/img/people/harlow-council-gta-6-parody-video-town-centre-og.jpg">
 <meta name="theme-color" content="#c8102e">
 <link rel="icon" href="/favicon.svg" type="image/svg+xml">
 <link rel="apple-touch-icon" href="/icons/apple-touch-icon.png">
@@ -32,7 +32,7 @@
 <meta property="article:section" content="News">
 <meta property="article:published_time" content="2026-11-18T12:54:00Z">
 <meta property="article:modified_time" content="2026-11-18T12:54:00Z">
-<script type="application/ld+json">{"@context": "https://schema.org", "@type": "NewsArticle", "headline": "Harlow Council spoofs GTA 6 with video tour of its town centre revamp", "description": "A day before Grand Theft Auto VI goes on sale, Harlow Council has released a tongue-in-cheek video that drives viewers round the town's roundabouts and rebuilt Market Square.", "mainEntityOfPage": "https://theseax.com/story/harlow-council-gta-6-parody-video-town-centre/", "url": "https://theseax.com/story/harlow-council-gta-6-parody-video-town-centre/", "image": ["https://theseax.com/img/og/place-harlow.jpg"], "articleSection": "News", "inLanguage": "en-GB", "isAccessibleForFree": true, "author": {"@type": "Organization", "name": "The Seax", "url": "https://theseax.com/"}, "publisher": {"@type": "NewsMediaOrganization", "name": "The Seax", "url": "https://theseax.com/", "logo": {"@type": "ImageObject", "url": "https://theseax.com/icons/icon-512.png", "width": 512, "height": 512}, "sameAs": ["https://www.facebook.com/profile.php?id=61596409826403", "https://x.com/theseaxessex", "https://whatsapp.com/channel/0029VbHuL8nBKfi870qIO307"]}, "contentLocation": {"@type": "Place", "name": "Harlow, Essex"}, "datePublished": "2026-11-18T12:54:00Z", "dateModified": "2026-11-18T12:54:00Z", "isBasedOn": "https://www.yourharlow.com/2026/11/18/harlow-council-beats-gta-6-to-launch-with-its-very-own-harlow-edition/"}</script>
+<script type="application/ld+json">{"@context": "https://schema.org", "@type": "NewsArticle", "headline": "Harlow Council spoofs GTA 6 with video tour of its town centre revamp", "description": "A day before Grand Theft Auto VI goes on sale, Harlow Council has released a tongue-in-cheek video that drives viewers round the town's roundabouts and rebuilt Market Square.", "mainEntityOfPage": "https://theseax.com/story/harlow-council-gta-6-parody-video-town-centre/", "url": "https://theseax.com/story/harlow-council-gta-6-parody-video-town-centre/", "image": ["https://theseax.com/img/people/harlow-council-gta-6-parody-video-town-centre-og.jpg"], "articleSection": "News", "inLanguage": "en-GB", "isAccessibleForFree": true, "author": {"@type": "Organization", "name": "The Seax", "url": "https://theseax.com/"}, "publisher": {"@type": "NewsMediaOrganization", "name": "The Seax", "url": "https://theseax.com/", "logo": {"@type": "ImageObject", "url": "https://theseax.com/icons/icon-512.png", "width": 512, "height": 512}, "sameAs": ["https://www.facebook.com/profile.php?id=61596409826403", "https://x.com/theseaxessex", "https://whatsapp.com/channel/0029VbHuL8nBKfi870qIO307"]}, "contentLocation": {"@type": "Place", "name": "Harlow, Essex"}, "datePublished": "2026-11-18T12:54:00Z", "dateModified": "2026-11-18T12:54:00Z", "isBasedOn": "https://www.yourharlow.com/2026/11/18/harlow-council-beats-gta-6-to-launch-with-its-very-own-harlow-edition/"}</script>
 <script data-goatcounter="https://theseax.goatcounter.com/count" async src="//gc.zgo.at/count.js"></script>
 </head>
 <body>
@@ -58,7 +58,7 @@
   <a href="https://x.com/intent/post?url=https%3A%2F%2Ftheseax.com%2Fstory%2Fharlow-council-gta-6-parody-video-town-centre%2F&amp;text=Harlow%20Council%20spoofs%20GTA%206%20with%20video%20tour%20of%20its%20town%20centre%20revamp" target="_blank" rel="noopener">X</a>
   <button data-share="copy" data-url="https://theseax.com/story/harlow-council-gta-6-parody-video-town-centre/" data-title="Harlow Council spoofs GTA 6 with video tour of its town centre revamp">Copy link</button>
 </div>
-  <figure class="stock"><img src="/img/places/harlow.jpg?v=1" width="1200" height="900" alt="File photo: Water Gardens, Harlow" loading="eager"><figcaption><b>Water Gardens, Harlow</b>. File photo, not the scene of this story. Photo: FromMorningToMidnight, <a href="https://creativecommons.org/licenses/by-sa/4.0" target="_blank" rel="noopener license">CC BY-SA 4.0</a>, via <a href="https://commons.wikimedia.org/wiki/File:Harlow_-_Water_Gardens_-_20220823190714.jpg" target="_blank" rel="noopener">Wikimedia Commons</a>.</figcaption></figure>
+  <figure class="stock"><img src="/img/people/harlow-council-gta-6-parody-video-town-centre-wide.jpg?v=1" width="1200" height="655" alt="Picture: Still from Harlow Council&#x27;s GTA-style video of the town" loading="eager"><figcaption><b>Picture</b>: Harlow Council</figcaption></figure>
   <p>The video, released on Wednesday 18 November, borrows the look of the blockbuster game to promote new homes, regenerated neighbourhoods and the multi-million-pound overhaul of Harlow town centre, Your Harlow reports. Council leader Dan Swords said the town deserved the &#x27;blockbuster treatment&#x27; given how much is changing, and that residents could see it by stepping outside their front door.</p><figure class="stock video"><iframe src="https://www.youtube-nocookie.com/embed/8llZ_mjYlkE?rel=0" title="Harlow Council&#x27;s GTA-style video" style="display:block;width:100%;aspect-ratio:16/9;height:auto;border:0" loading="lazy" allow="accelerometer; encrypted-media; gyroscope; picture-in-picture; web-share" referrerpolicy="strict-origin-when-cross-origin" allowfullscreen></iframe><figcaption><b>Harlow Council&#x27;s GTA-style video</b>. Video: Harlow Council. <a href="https://www.youtube.com/watch?v=8llZ_mjYlkE" target="_blank" rel="noopener">Watch on YouTube ↗</a></figcaption></figure>
   <h2>Key points</h2><ul class="points"><li>The game goes on sale on Thursday 19 November</li><li>Council leader Dan Swords fronted the launch</li></ul>
   <!-- Article End -->
